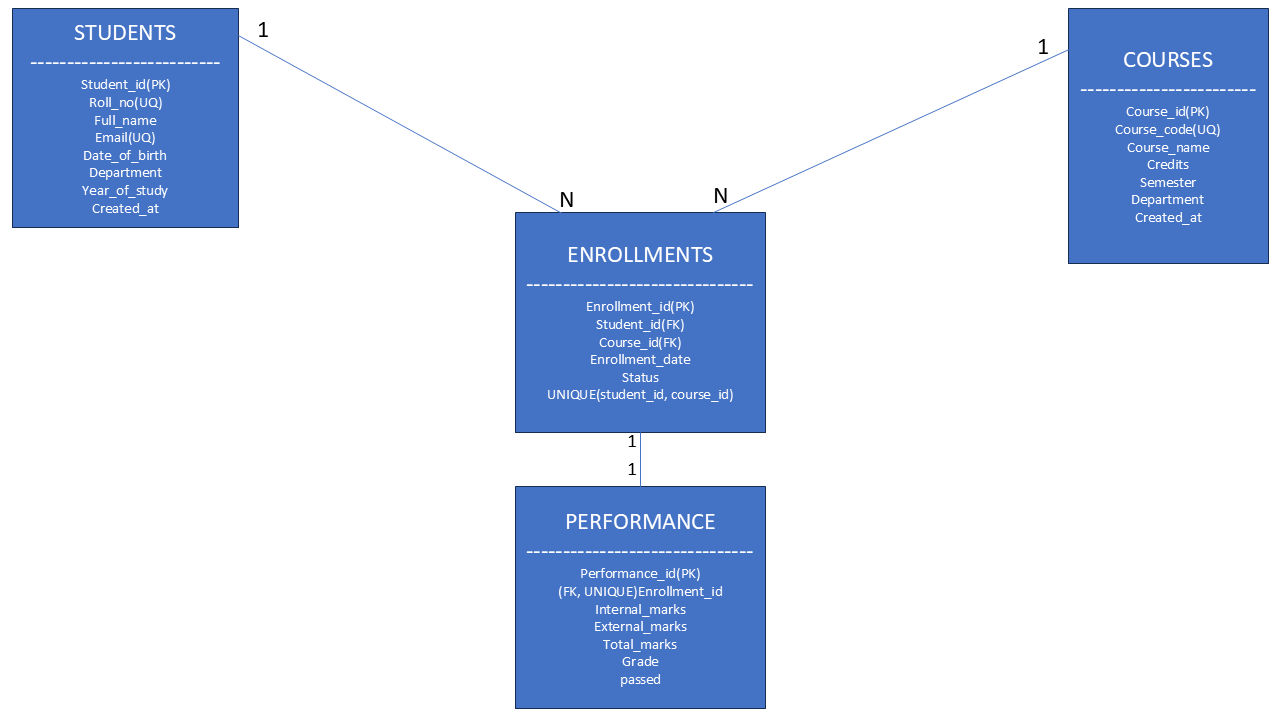
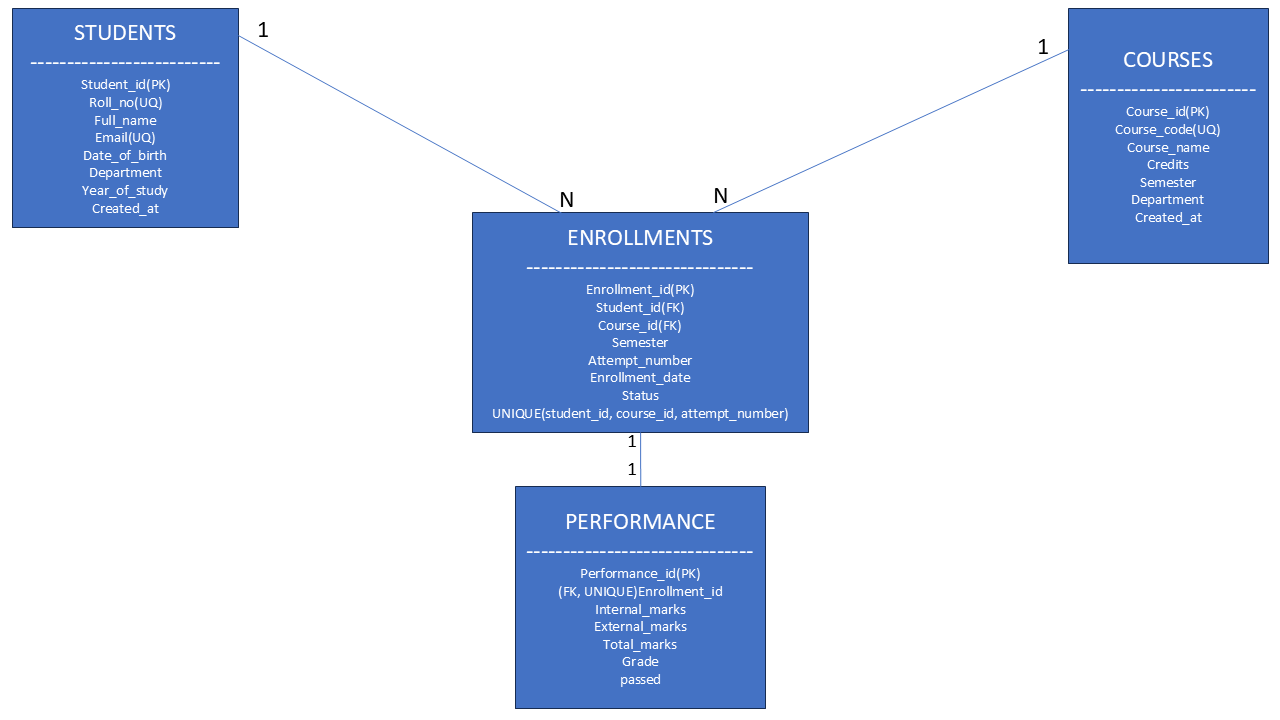
Improve folder-level documentation

Changed region(s): [[0.3438, 0.275, 0.6562, 0.6111]]

diff --git a/schemas/README.md b/schemas/README.md
@@ -1,8 +1,13 @@
-# Schema Definition
-This directory contains sql scripts responsible for creating database schemas
+# Schema Design
 
-# Purpose
-Schemas are used to logically separate database objects and avoid name conflicts
+This project follows a relational database design for modeling an academic management system.
 
-## File order
-- 01_schema.sql - creates the base schema used by all tables
+Key Design Decisions:
+
+- Students and Courses have a many-to-many relationship.
+- ENROLLMENTS acts as a junction table to resolve this relationship.
+- PERFORMANCE maintains a one-to-one relationship with ENROLLMENTS.
+- The attempt_number attribute enables modeling of course retakes.
+- UNIQUE(student_id, course_id, attempt_number) prevents duplicate enrollment attempts.
+
+The schema is designed to enforce data integrity through primary keys, foreign keys, and constraints.

diff --git a/tables/README.md b/tables/README.md
@@ -1,10 +1,16 @@
 # Table Definitions
-This directory contains sql scripts for creating core relational tables
 
-# Design goals
-- Enforce data integrity using primary and foreign keys
-- Use appropriate data types and constraints
-- Keep tables normalized
+This folder contains the SQL definitions for all database tables.
 
-## File order
-- 01_tables.sql - defines core tables
+Constraints Implemented:
+
+- Primary Keys for unique record identification.
+- Foreign Keys to maintain referential integrity.
+- UNIQUE constraints to prevent duplicate enrollments.
+- CHECK constraints for:
+  - Valid semester range (1–8)
+  - Valid marks range
+  - Valid grade values
+- NOT NULL constraints for required attributes.
+
+ON DELETE CASCADE is used to ensure dependent records are automatically removed when a parent record is deleted.

diff --git a/queries/README.md b/queries/README.md
@@ -1,7 +1,18 @@
-# Queries
-Contains example SQL queries to demonstrate data retrieval and filtering
+# SQL Queries
 
-## Scope
-- Basic SELECT queries
-- WHERE conditions
-- Sorting and filtering
+This folder contains analytical queries demonstrating relational database capabilities.
+
+Advanced Queries Include:
+
+- Top 3 students by average marks.
+- Students who failed any course.
+- Course with highest enrollments.
+- Grade distribution analysis.
+- Detection of multiple course attempts using HAVING clause.
+
+Concepts Demonstrated:
+
+- Multi-table JOIN operations
+- GROUP BY and HAVING
+- Aggregate functions (AVG, COUNT)
+- Filtering and sorting

diff --git a/data/README.md b/data/README.md
@@ -1,6 +1,18 @@
 # Sample Data
-Contains controlled sample data used for testing queries
 
-## Notes
-- Data is minimal and non-sensitive
-- Intended only for local testing
+This folder contains realistic sample data for testing the database.
+
+Dataset Includes:
+
+- 5 Students
+- 5 Courses
+- 7 Enrollments
+- 7 Performance Records
+
+Special Cases Modeled:
+
+- A student retaking a course (multiple attempts).
+- A failed performance case.
+- High scoring example for analytical queries.
+
+The dataset is designed to support aggregation, filtering, and advanced SQL operations.
